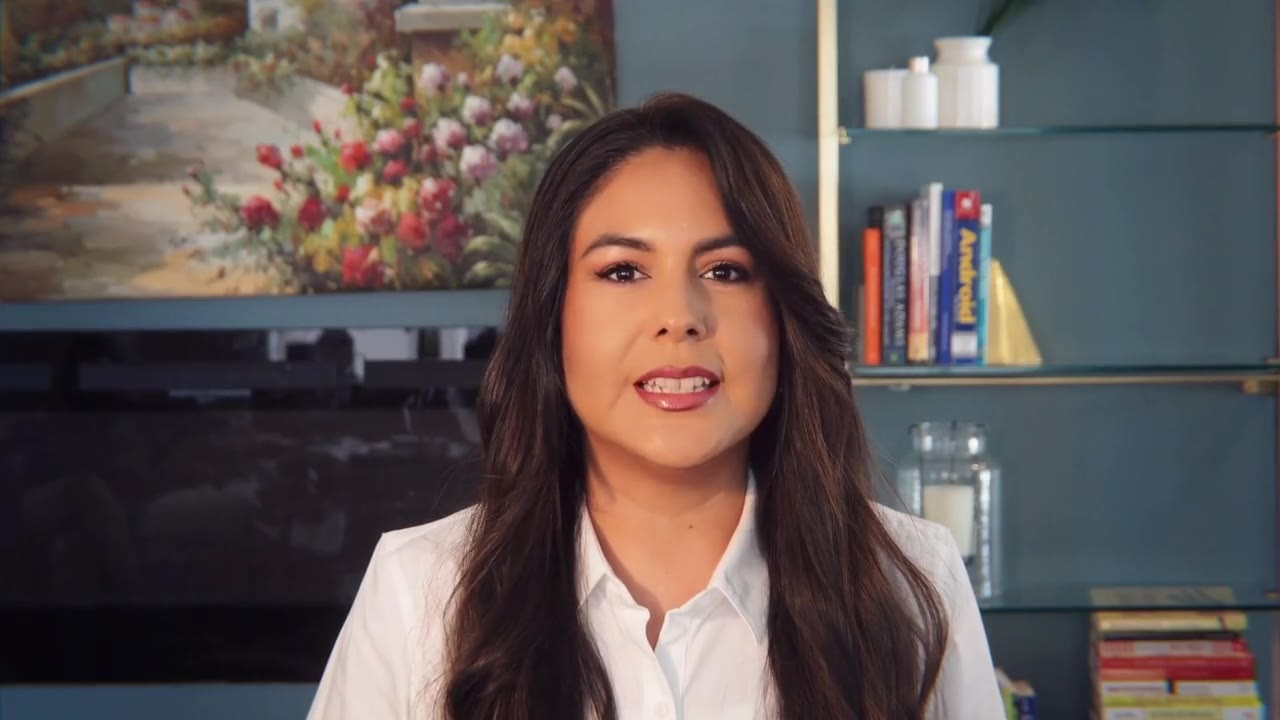
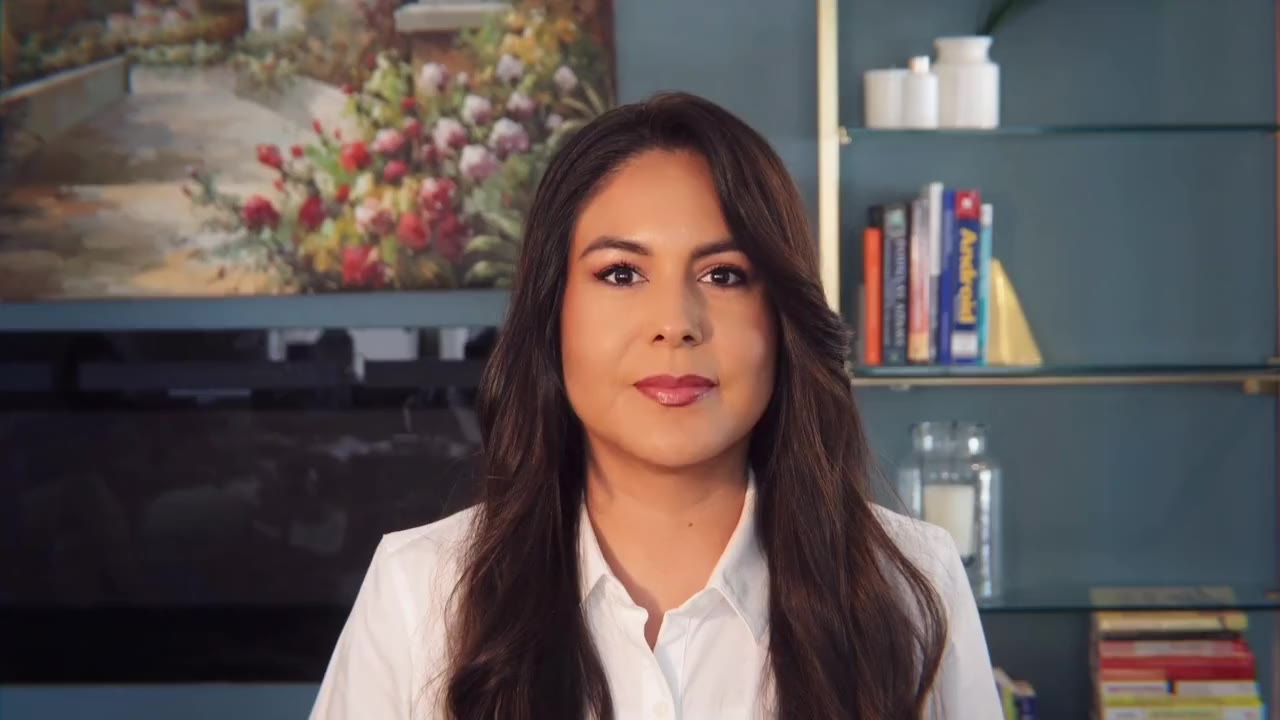
Use the first frame as the intro poster; remove unused Webby.gif

diff --git a/index.html b/index.html
@@ -39,7 +39,7 @@
 						<!-- <header class="major">
 							<h2>My story</h2>
 						</header> -->
-						<video src="images/intro.mp4" poster="images/intro-poster.jpg" controls playsinline preload="metadata" style="display: block; width: 100%; aspect-ratio: 16 / 9; background: #000; margin: 0 0 1.5em 0;"></video>
+						<video src="images/intro.mp4" poster="images/intro-poster.jpg?v=2" controls playsinline preload="metadata" style="display: block; width: 100%; aspect-ratio: 16 / 9; background: #000; margin: 0 0 1.5em 0;"></video>
 						<p>I live on the edge where design and code meet, pushing the limits of each. Whether you need to deploy a new AI model or migrate an old database, I bring attention to detail and listen to your feedback. We explore the options together, you choose the direction, and I build software that looks and feels great!</p>
 						<ul class="actions">
 							<li><a href="https://www.linkedin.com/in/aqgarcia/" class="button">LinkedIn Profile</a></li>
